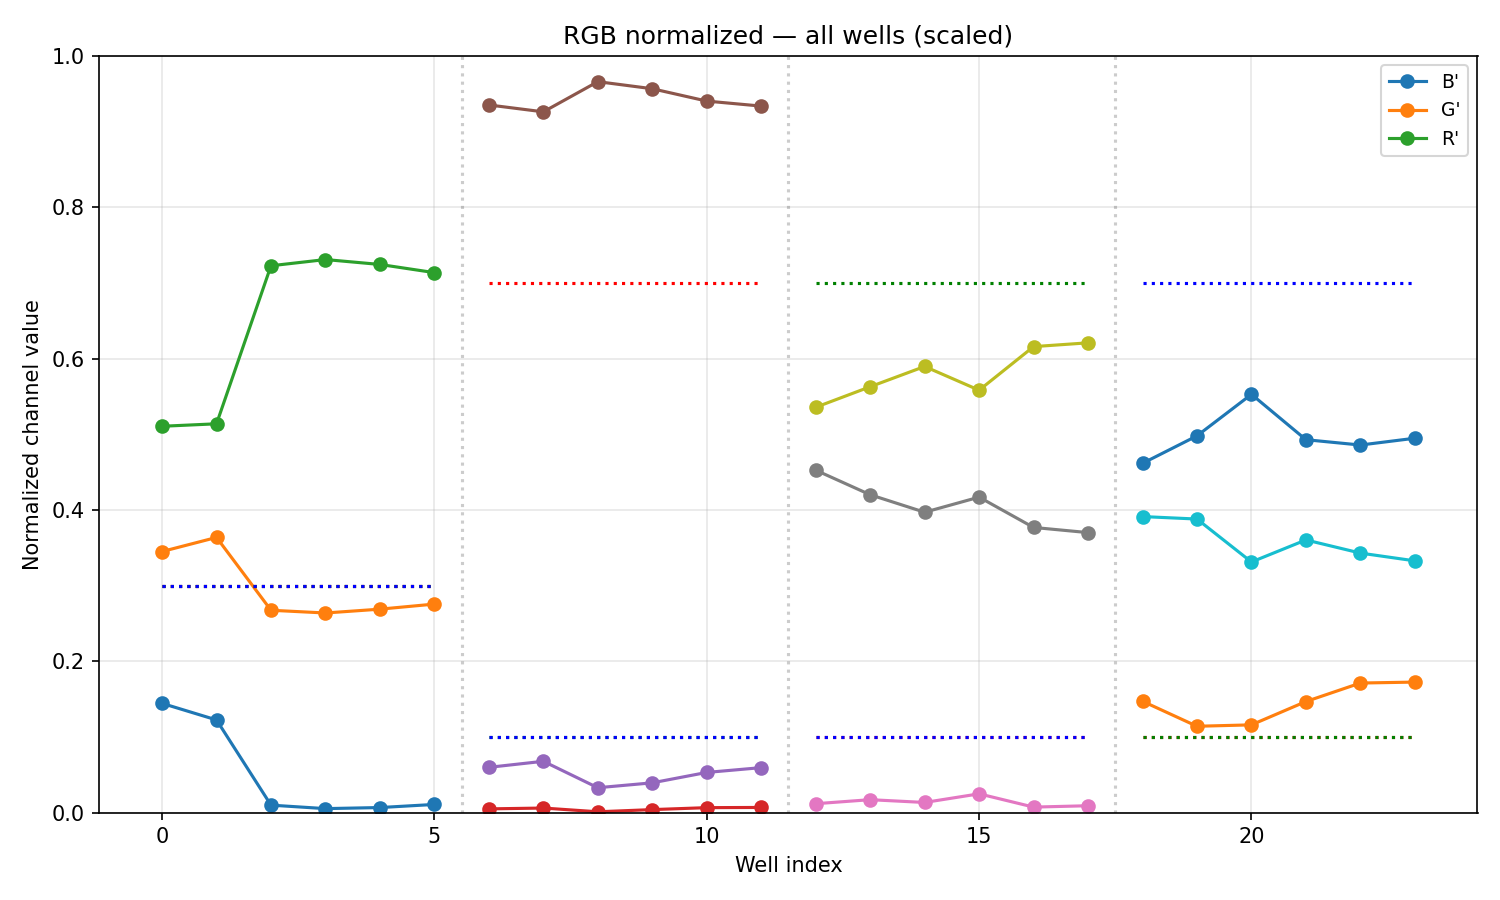
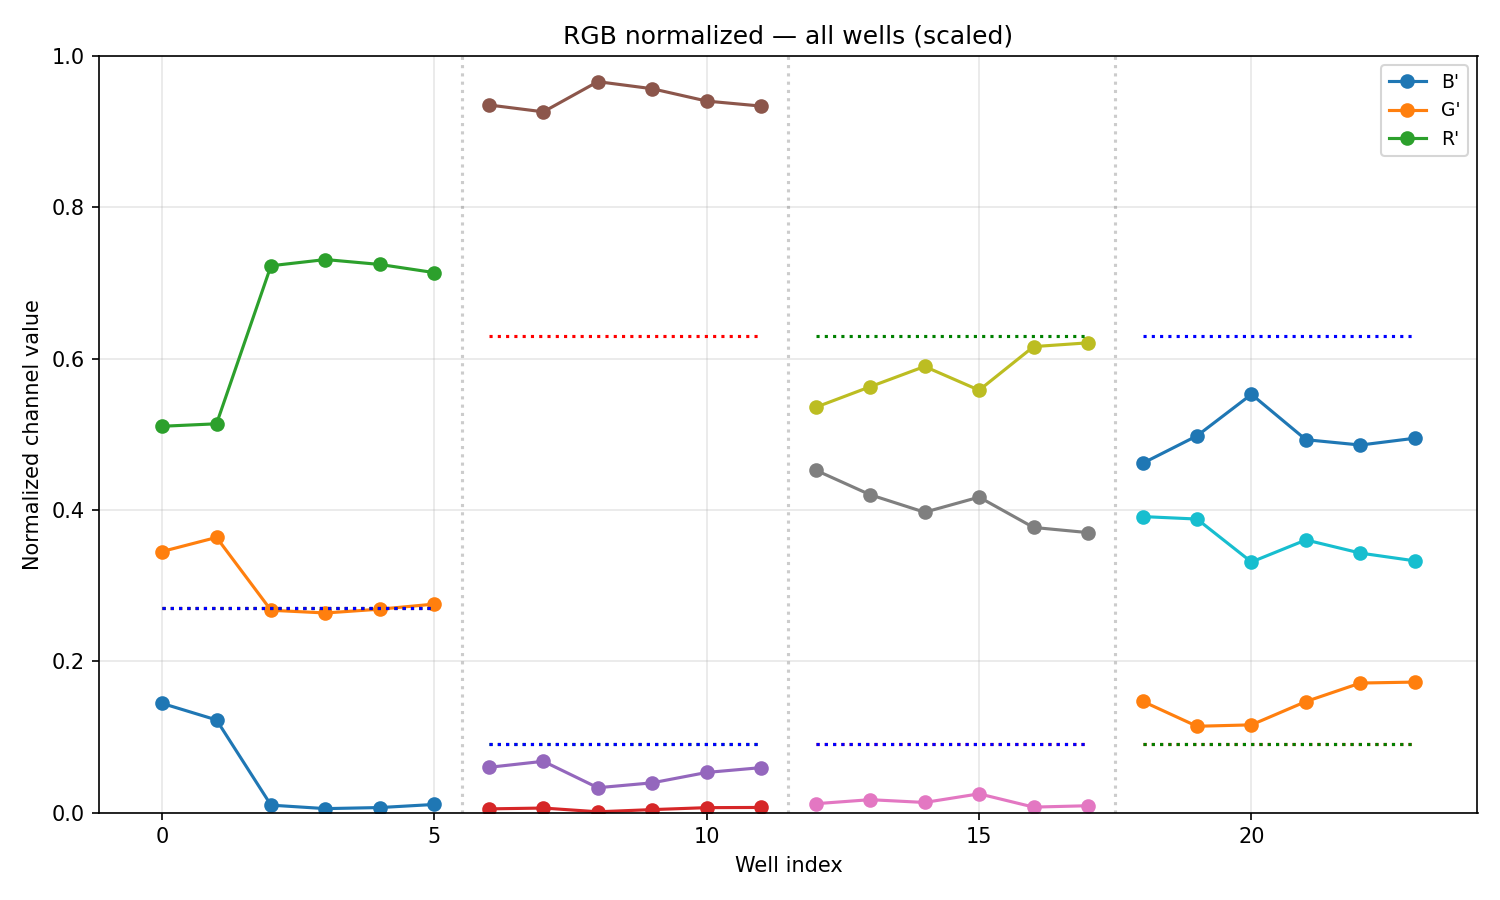
plots: use water-scaled expected overlays (dye*0.9) across all normalized RGB plots; keep error as dye-normalized

Changed region(s): [[0.7667, 0.8089, 0.9507, 0.84], [0.552, 0.8089, 0.736, 0.84], [0.3373, 0.8089, 0.4907, 0.84]]

diff --git a/tests/analysis/uncertainty_plot_and_stats.py b/tests/analysis/uncertainty_plot_and_stats.py
@@ -216,14 +216,14 @@ def write_normalized_outputs(df: pd.DataFrame, out_dir: Path):
                 plt.ylabel("Normalized channel value")
                 plt.ylim(0, 1)
                 plt.grid(True, alpha=0.3)
-                # Overlay expected R/Y/B dotted lines for RGB normalized (scaled)
+                # Overlay expected R/Y/B dotted lines for RGB normalized (scaled) — water-scaled
                 if cs == 'RGB':
                     expected = get_expected_compositions('dominant')
-                    comp = expected.get(int(group_id), {'R': 0.33, 'Y': 0.33, 'B': 0.33})
-                    # Use raw expected fractions for R/Y/B
-                    r0 = comp['R']
-                    y0 = comp['Y']
-                    b0 = comp['B']
+                    comp = expected.get(int(group_id), {'R': 0.33, 'Y': 0.33, 'B': 0.33, 'Water': 0.0})
+                    scale = 1.0 - comp.get('Water', 0.0)
+                    r0 = comp['R'] * scale
+                    y0 = comp['Y'] * scale
+                    b0 = comp['B'] * scale
                     xmin = pivot.index.min() if len(pivot.index) else None
                     xmax = pivot.index.max() if len(pivot.index) else None
                     if xmin is not None and xmax is not None:
@@ -245,6 +245,20 @@ def write_normalized_outputs(df: pd.DataFrame, out_dir: Path):
                 plt.ylabel("Sum-normalized channel fraction")
                 plt.ylim(0, 1)
                 plt.grid(True, alpha=0.3)
+                # Overlay expected lines for RGB sum-normalized — water-scaled
+                if cs == 'RGB':
+                    expected = get_expected_compositions('dominant')
+                    comp = expected.get(int(group_id), {'R': 0.33, 'Y': 0.33, 'B': 0.33, 'Water': 0.0})
+                    scale = 1.0 - comp.get('Water', 0.0)
+                    r0 = comp['R'] * scale
+                    y0 = comp['Y'] * scale
+                    b0 = comp['B'] * scale
+                    xmin = pivot.index.min() if len(pivot.index) else None
+                    xmax = pivot.index.max() if len(pivot.index) else None
+                    if xmin is not None and xmax is not None:
+                        plt.hlines([r0], xmin=xmin, xmax=xmax, colors='r', linestyles='dotted', label='R0')
+                        plt.hlines([y0], xmin=xmin, xmax=xmax, colors='g', linestyles='dotted', label='Y0')
+                        plt.hlines([b0], xmin=xmin, xmax=xmax, colors='b', linestyles='dotted', label='B0')
                 plt.legend(fontsize=9)
                 plt.tight_layout()
                 out_png = out_dir / f"trend_group_{group_id}_{cs}_normalized_sum.png"
@@ -286,15 +300,28 @@ def plot_normalized_all_wells(out_dir: Path):
                     plt.plot(pivot.index, pivot[ch].values, marker='o', linestyle='-', label=label)
                     if label:
                         legend_added.add(ch)
-                # For RGB scaled variant, overlay expected R/Y/B dotted lines per group
+                # For RGB scaled variant, overlay expected R/Y/B dotted lines per group (water-scaled)
                 if cs == 'RGB' and filename_suffix == 'scaled':
-                    # Expected compositions (dominant set)
                     expected = get_expected_compositions('dominant')
-                    comp = expected.get(int(group_id), {'R': 0.33, 'Y': 0.33, 'B': 0.33})
-                    # Use raw expected fractions for R/Y/B
-                    r0 = comp['R']
-                    y0 = comp['Y']
-                    b0 = comp['B']
+                    comp = expected.get(int(group_id), {'R': 0.33, 'Y': 0.33, 'B': 0.33, 'Water': 0.0})
+                    scale = 1.0 - comp.get('Water', 0.0)
+                    r0 = comp['R'] * scale
+                    y0 = comp['Y'] * scale
+                    b0 = comp['B'] * scale
+                    xmin = pivot.index.min() if len(pivot.index) else None
+                    xmax = pivot.index.max() if len(pivot.index) else None
+                    if xmin is not None and xmax is not None:
+                        plt.hlines([r0], xmin=xmin, xmax=xmax, colors='r', linestyles='dotted', label=None)
+                        plt.hlines([y0], xmin=xmin, xmax=xmax, colors='g', linestyles='dotted', label=None)
+                        plt.hlines([b0], xmin=xmin, xmax=xmax, colors='b', linestyles='dotted', label=None)
+                # For RGB sum variant, overlay expected R/Y/B dotted lines per group (water-scaled)
+                if cs == 'RGB' and filename_suffix == 'sum':
+                    expected = get_expected_compositions('dominant')
+                    comp = expected.get(int(group_id), {'R': 0.33, 'Y': 0.33, 'B': 0.33, 'Water': 0.0})
+                    scale = 1.0 - comp.get('Water', 0.0)
+                    r0 = comp['R'] * scale
+                    y0 = comp['Y'] * scale
+                    b0 = comp['B'] * scale
                     xmin = pivot.index.min() if len(pivot.index) else None
                     xmax = pivot.index.max() if len(pivot.index) else None
                     if xmin is not None and xmax is not None:
@@ -458,14 +485,20 @@ def compute_normalized_rgb_error(df: pd.DataFrame, out_dir: Path, expected_set: 
         r_norm = wm['RGB_R'] / sums
         g_norm = wm['RGB_G'] / sums
         b_norm = wm['RGB_B'] / sums
-        # Expected normalized fractions based on composition volumes (R, Y->G, B)
-        comp = expected.get(int(group_id), {'R': 0.33, 'Y': 0.33, 'B': 0.33})
-        # Use raw expected fractions (include Water implicitly in total mix)
-        r0 = comp['R']
-        g0 = comp['Y']
-        b0 = comp['B']
-        # Euclidean error per well between normalized measured and expected
-        err = np.sqrt((r_norm - r0)**2 + (g_norm - g0)**2 + (b_norm - b0)**2)
+        # Expected fractions
+        comp = expected.get(int(group_id), {'R': 0.33, 'Y': 0.33, 'B': 0.33, 'Water': 0.0})
+        # For error metrics, use dye-only normalized expectations (exclude water)
+        total_dye = comp['R'] + comp['Y'] + comp['B']
+        r0_err = comp['R'] / total_dye if total_dye else np.nan
+        g0_err = comp['Y'] / total_dye if total_dye else np.nan
+        b0_err = comp['B'] / total_dye if total_dye else np.nan
+        # For plotting overlays, use water-scaled absolute dye fractions
+        scale = 1.0 - comp.get('Water', 0.0)
+        r0_line = comp['R'] * scale
+        g0_line = comp['Y'] * scale
+        b0_line = comp['B'] * scale
+        # Euclidean error per well between normalized measured and normalized expected (dye-only)
+        err = np.sqrt((r_norm - r0_err)**2 + (g_norm - g0_err)**2 + (b_norm - b0_err)**2)
         # Collect rows
         for well_idx in wm.index:
             rows.append({
@@ -474,9 +507,9 @@ def compute_normalized_rgb_error(df: pd.DataFrame, out_dir: Path, expected_set: 
                 'r_norm': float(r_norm.loc[well_idx]),
                 'g_norm': float(g_norm.loc[well_idx]),
                 'b_norm': float(b_norm.loc[well_idx]),
-                'r0': float(r0),
-                'g0': float(g0),
-                'b0': float(b0),
+                'r0': float(r0_err),
+                'g0': float(g0_err),
+                'b0': float(b0_err),
                 'rgb_error': float(err.loc[well_idx])
             })
         # Plot normalized RGB with expected lines per group
@@ -484,10 +517,10 @@ def compute_normalized_rgb_error(df: pd.DataFrame, out_dir: Path, expected_set: 
         plt.plot(wm.index, r_norm.values, marker='o', linestyle='-', label=f"R' (mean)")
         plt.plot(wm.index, g_norm.values, marker='o', linestyle='-', label=f"G' (mean)")
         plt.plot(wm.index, b_norm.values, marker='o', linestyle='-', label=f"B' (mean)")
-        # Expected horizontal lines
-        plt.hlines([r0], xmin=wm.index.min(), xmax=wm.index.max(), colors='r', linestyles='dotted', label=f"R0={r0:.2f}")
-        plt.hlines([g0], xmin=wm.index.min(), xmax=wm.index.max(), colors='g', linestyles='dotted', label=f"Y0={g0:.2f}")
-        plt.hlines([b0], xmin=wm.index.min(), xmax=wm.index.max(), colors='b', linestyles='dotted', label=f"B0={b0:.2f}")
+        # Expected horizontal lines (water-scaled)
+        plt.hlines([r0_line], xmin=wm.index.min(), xmax=wm.index.max(), colors='r', linestyles='dotted', label=f"R0={r0_line:.2f}")
+        plt.hlines([g0_line], xmin=wm.index.min(), xmax=wm.index.max(), colors='g', linestyles='dotted', label=f"Y0={g0_line:.2f}")
+        plt.hlines([b0_line], xmin=wm.index.min(), xmax=wm.index.max(), colors='b', linestyles='dotted', label=f"B0={b0_line:.2f}")
         avg_err = float(err.mean()) if len(err) else np.nan
         plt.title(f"Group {group_id} — RGB normalized (avg error {avg_err:.3f})")
         plt.xlabel("Well index")
